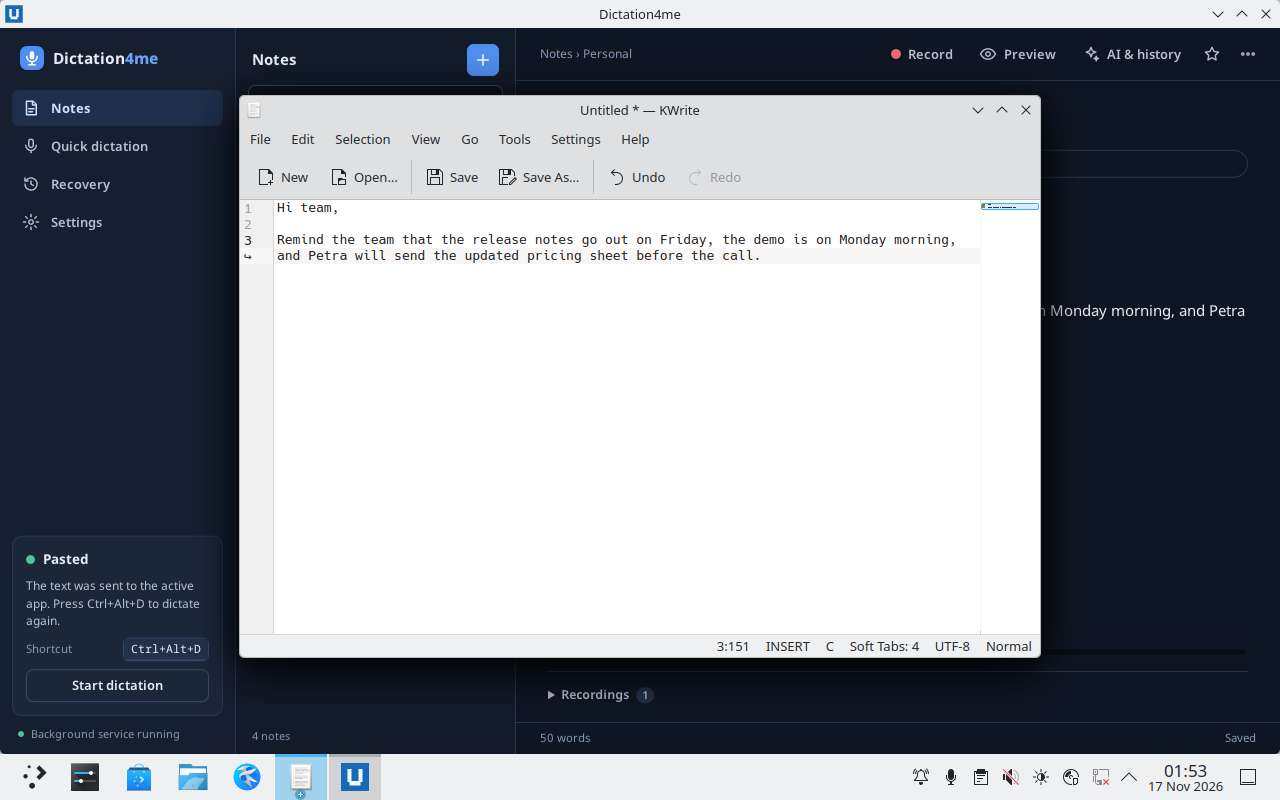
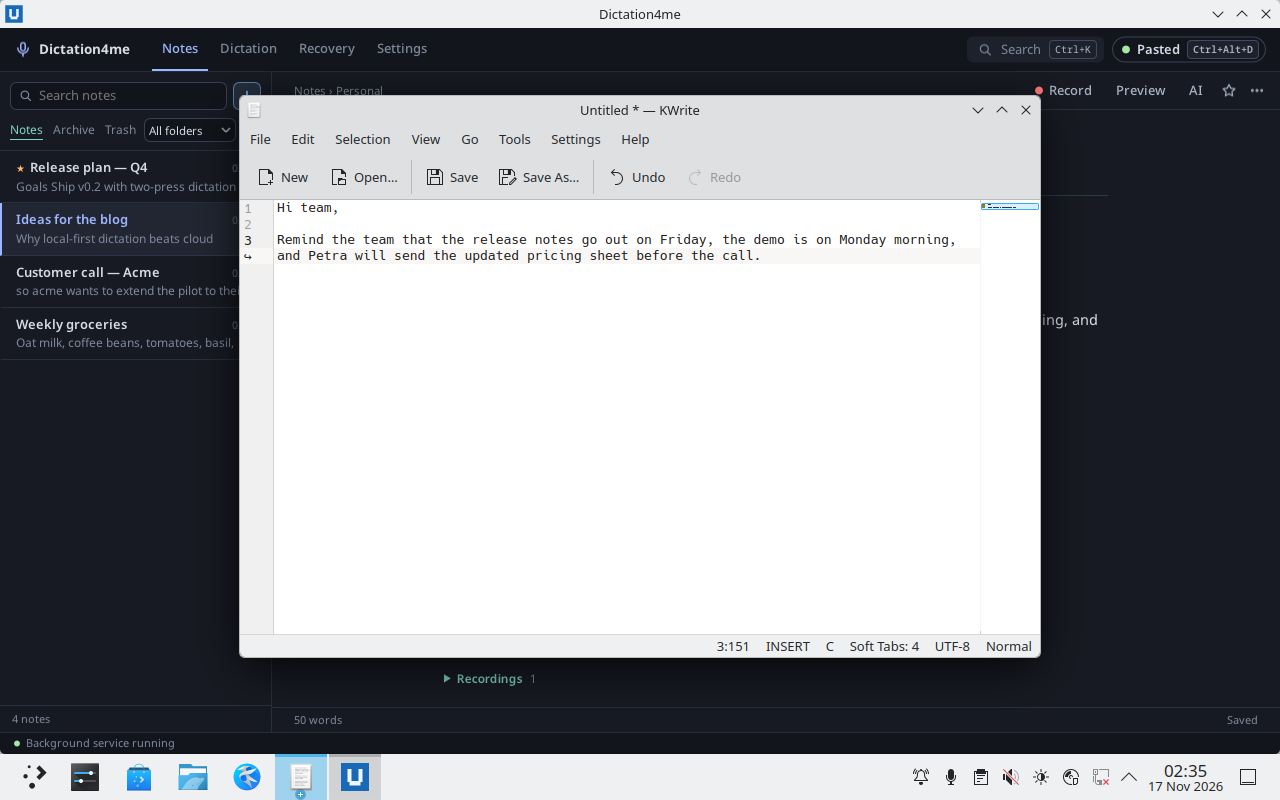
Release 0.3.0: redesigned UI, PyPI distribution
- PyPI is now the primary install path (uv tool install dictation4me);
  README uses absolute image/doc links so it renders on PyPI; GitHub,
  tag and pipx installs listed as alternatives.
- .github/workflows/publish-pypi.yml publishes on GitHub release with
  Trusted Publishing (environment 'pypi', OIDC, no stored token) after
  lint, tests, build and twine check, and refuses a tag that does not
  match the package version.
- User guide updated for the new interface (top bar, dictation chip,
  one-page Settings) with a fresh screenshot set captured on KDE
  Plasma 6.6 Wayland.
- Version 0.3.0, changelog, implementation status.

diff --git a/src/dictation4me/__init__.py b/src/dictation4me/__init__.py
@@ -1,3 +1,3 @@
 """Dictation4me — local-first native notebook and dictation assistant."""
-__version__ = "0.2.0"
+__version__ = "0.3.0"
 APP_ID = "org.bigbatmanorg.dictation4me"

diff --git a/README.md b/README.md
@@ -5,13 +5,14 @@ Live transcription, AI-assisted voice notes and a native notebook for KDE Plasma
 Your own speech and AI servers. Your notes stay on your computer.</p>
 
 <p align="center">
+<a href="https://pypi.org/project/dictation4me/"><img alt="PyPI" src="https://img.shields.io/pypi/v/dictation4me"></a>
 <a href="https://github.com/bigbatmanorg/dictation4me/releases/latest"><img alt="Release" src="https://img.shields.io/github/v/release/bigbatmanorg/dictation4me"></a>
-<a href="https://github.com/bigbatmanorg/dictation4me/actions"><img alt="CI" src="https://github.com/bigbatmanorg/dictation4me/actions/workflows/ci.yml/badge.svg"></a>
+<a href="https://github.com/bigbatmanorg/dictation4me/actions/workflows/ci.yml"><img alt="CI" src="https://github.com/bigbatmanorg/dictation4me/actions/workflows/ci.yml/badge.svg"></a>
 <img alt="Python" src="https://img.shields.io/badge/python-3.12%2B-blue">
 <img alt="License" src="https://img.shields.io/badge/license-MIT-green">
 </p>
 
-![Live dictation into any app](docs/screenshots/live-window.png)
+![Live dictation into any app](https://raw.githubusercontent.com/bigbatmanorg/dictation4me/main/docs/screenshots/live-window.png)
 
 ## Features
 
@@ -25,62 +26,84 @@ Your own speech and AI servers. Your notes stay on your computer.</p>
 
 | Notes | AI rewrite proposal |
 |---|---|
-| ![Notes](docs/screenshots/notes.png) | ![AI rewrite](docs/screenshots/ai-rewrite.png) |
+| ![Notes](https://raw.githubusercontent.com/bigbatmanorg/dictation4me/main/docs/screenshots/notes.png) | ![AI rewrite](https://raw.githubusercontent.com/bigbatmanorg/dictation4me/main/docs/screenshots/ai-rewrite.png) |
 | **Voice note with live text** | **Settings** |
-| ![Voice note](docs/screenshots/voice-note-live.png) | ![Settings](docs/screenshots/settings-dictation.png) |
+| ![Voice note](https://raw.githubusercontent.com/bigbatmanorg/dictation4me/main/docs/screenshots/voice-note-live.png) | ![Settings](https://raw.githubusercontent.com/bigbatmanorg/dictation4me/main/docs/screenshots/settings-dictation.png) |
 
 ## Install
 
 **1. System packages** (Linux, once):
 
 ```sh
-sudo apt install libportaudio2 pipewire-alsa wl-clipboard      # Debian/Ubuntu
+sudo apt install libportaudio2 pipewire-alsa wl-clipboard      # Debian / Ubuntu
 sudo dnf install portaudio pipewire-alsa wl-clipboard          # Fedora
 ```
 
-**2. Install with [uv](https://docs.astral.sh/uv/) straight from GitHub:**
+**2. Install from PyPI with [uv](https://docs.astral.sh/uv/getting-started/installation/)** (recommended):
 
 ```sh
-# latest release
-uv tool install git+https://github.com/bigbatmanorg/dictation4me@v0.2.0
-
-# or the release wheel
-uv tool install https://github.com/bigbatmanorg/dictation4me/releases/download/v0.2.0/dictation4me-0.2.0-py3-none-any.whl
-
-# or the development version (main branch)
-uv tool install git+https://github.com/bigbatmanorg/dictation4me
+uv tool install dictation4me
 ```
 
-**3. Register the app** (menu entry, autostart, and what KDE needs for the shortcut):
+This puts the `dictation4me` command on your `PATH` in its own isolated environment. If the command is not found afterwards, run `uv tool update-shell` and open a new terminal.
+
+**3. Register the app** (menu entry and autostart; KDE needs the menu entry to grant the shortcut and automatic pasting):
 
 ```sh
 dictation4me init --autostart
 dictation4me gui
 ```
 
-Requirements: Python 3.12+, glibc 2.39+ (Ubuntu 24.04+, Debian 13+, Fedora 40+), KDE Plasma 6 on Wayland recommended. If `dictation4me` is not found after installing, run `uv tool update-shell` and open a new terminal.
+**Update or remove:**
+
+```sh
+uv tool upgrade dictation4me && dictation4me service restart
+dictation4me uninstall && uv tool uninstall dictation4me      # keeps your notes
+```
+
+<details>
+<summary>Other ways to install</summary>
+
+```sh
+# A specific version from PyPI
+uv tool install dictation4me==0.3.0
+
+# Straight from GitHub (a release tag, or the latest main branch)
+uv tool install git+https://github.com/bigbatmanorg/dictation4me@v0.3.0
+uv tool install git+https://github.com/bigbatmanorg/dictation4me
+
+# With pipx or pip instead of uv
+pipx install dictation4me
+python3 -m pip install --user dictation4me
+```
+
+Release wheels and checksums are also attached to every [GitHub release](https://github.com/bigbatmanorg/dictation4me/releases).
+</details>
+
+Requirements: Python 3.12+, glibc 2.39+ (Ubuntu 24.04+, Debian 13+, Fedora 40+), KDE Plasma 6 on Wayland recommended.
 
 ## Set up in two minutes
 
-1. **Settings › Connections:** enter your speech-to-text server URL and model (e.g. `http://my-server:4000/v1`, `whisper-1`). For live text choose *Transcription mode: Live* and a realtime model (e.g. `asr-realtime`). Add the AI server if you want rewrites. Paste the API key; it is stored in the system keyring.
+1. **Settings › Connections:** enter your speech-to-text server URL and model (e.g. `http://my-server:4000/v1`, `whisper-1`). For live text choose *Mode: Live while you speak* and a realtime model (e.g. `asr-realtime`). Add the AI server if you want rewrites. Paste the API key; it is stored in the system keyring.
 2. Approve the shortcut in the KDE dialog (default **Ctrl+Alt+D**).
-3. **Settings › Dictation › Shortcut behaviour:** *type the text into the active app*, then click **Allow automatic pasting…** and approve once.
+3. **Settings › Dictation › Behaviour:** *Stop, then type the text into the active app*, then click **Allow automatic pasting…** and approve once.
 4. Click into any text field, press **Ctrl+Alt+D**, speak, press **Ctrl+Alt+D**.
 
-Running LiteLLM + vLLM? There's a ready-made config in the [user guide appendix](docs/USER_GUIDE.md#appendix-litellm--vllm-server-example).
+Running LiteLLM + vLLM? There's a ready-made config in the [user guide appendix](https://github.com/bigbatmanorg/dictation4me/blob/main/docs/USER_GUIDE.md#appendix-litellm--vllm-server-example).
 
 ## Documentation
 
-- 📖 **[User guide](docs/USER_GUIDE.md):** install, setup, daily use, every setting, CLI, privacy, troubleshooting
-- 🧩 [Architecture](docs/ARCHITECTURE_IMPLEMENTED.md) · [UX review](docs/UX_REVIEW.md) · [Design specifications](design-spec/)
-- ✅ [Implementation status](docs/IMPLEMENTATION_STATUS.md) and [qualification evidence](qualification/runs/)
-- 📝 [Changelog](CHANGELOG.md)
+- 📖 **[User guide](https://github.com/bigbatmanorg/dictation4me/blob/main/docs/USER_GUIDE.md):** install, setup, daily use, every setting, CLI, privacy, troubleshooting
+- 🎨 [Interface design](https://github.com/bigbatmanorg/dictation4me/blob/main/docs/ui-redesign/README.md) · [UX review](https://github.com/bigbatmanorg/dictation4me/blob/main/docs/UX_REVIEW.md) · [Architecture](https://github.com/bigbatmanorg/dictation4me/blob/main/docs/ARCHITECTURE_IMPLEMENTED.md)
+- ✅ [Implementation status](https://github.com/bigbatmanorg/dictation4me/blob/main/docs/IMPLEMENTATION_STATUS.md) and [qualification evidence](https://github.com/bigbatmanorg/dictation4me/tree/main/qualification/runs)
+- 📝 [Changelog](https://github.com/bigbatmanorg/dictation4me/blob/main/CHANGELOG.md)
 
 ## Quick reference
 
 | | |
 |---|---|
 | Dictate into any app | **Ctrl+Alt+D**, speak, **Ctrl+Alt+D** |
+| Start/stop from the window | the dictation chip in the top-right corner |
 | Open the notebook | app menu, tray icon, or `dictation4me gui` |
 | New note / save version / search | **Ctrl+N** / **Ctrl+S** / **Ctrl+K** |
 | Something wrong? | `dictation4me doctor` |
@@ -108,8 +131,8 @@ uv run ruff check src tests && uv run pytest -q
 uv run dictation4me gui
 ```
 
-Tests use isolated profiles (`DICTATION4ME_HOME`) and never touch your real shortcut, tray or keyring. Real-desktop behaviour is verified separately and recorded under [`qualification/runs/`](qualification/runs/).
+Tests use isolated profiles (`DICTATION4ME_HOME`) and never touch your real shortcut, tray or keyring. Real-desktop behaviour is verified separately and recorded under [`qualification/runs/`](https://github.com/bigbatmanorg/dictation4me/tree/main/qualification/runs). Releases are published to PyPI from GitHub Actions with Trusted Publishing.
 
 ## License
 
-MIT. See [LICENSE](LICENSE).
+MIT. See [LICENSE](https://github.com/bigbatmanorg/dictation4me/blob/main/LICENSE).

diff --git a/docs/USER_GUIDE.md b/docs/USER_GUIDE.md
@@ -52,20 +52,22 @@ sudo dnf install portaudio pipewire-alsa wl-clipboard
 | `pipewire-alsa` | Lets PortAudio record through PipeWire. Without it raw devices often reject 16 kHz and recording fails or drops audio. |
 | `wl-clipboard` | Clipboard on Wayland (`xclip` on X11). |
 
-### Install with uv from GitHub
+### Install from PyPI (recommended)
 
 ```sh
-# Latest release
-uv tool install git+https://github.com/bigbatmanorg/dictation4me@v0.2.0
-
-# Or the release wheel
-uv tool install https://github.com/bigbatmanorg/dictation4me/releases/download/v0.2.0/dictation4me-0.2.0-py3-none-any.whl
-
-# Or the current development version
-uv tool install git+https://github.com/bigbatmanorg/dictation4me
+uv tool install dictation4me
 ```
 
 `uv tool install` creates an isolated environment and puts `dictation4me` on your `PATH` (usually `~/.local/bin`). If the command isn't found, run `uv tool update-shell` and open a new terminal.
+
+Other options:
+
+```sh
+uv tool install dictation4me==0.3.0                                        # a specific version
+uv tool install git+https://github.com/bigbatmanorg/dictation4me@v0.3.0    # a GitHub release tag
+uv tool install git+https://github.com/bigbatmanorg/dictation4me           # latest main branch
+pipx install dictation4me                                                  # pipx instead of uv
+```
 
 ### Register the app
 
@@ -87,7 +89,7 @@ uv run dictation4me gui
 
 ## 3. First-time setup
 
-Open **Dictation4me** from the application menu (or run `dictation4me gui`), then go to **Settings**.
+Open **Dictation4me** from the application menu (or run `dictation4me gui`), then open the **Settings** tab. Settings is one page; the tree on the left jumps to each section.
 
 ![Settings — Connections](screenshots/settings-connections.png)
 
@@ -98,7 +100,7 @@ Open **Dictation4me** from the application menu (or run `dictation4me gui`), the
 | Field | What to enter |
 |---|---|
 | Server URL | The OpenAI-compatible base URL, e.g. `http://my-server:4000/v1`. Plain `http://` works for home-network names (`pgx`, `server.lan`, private IPs); internet servers need `https://`. |
-| Transcription mode | **After you stop** uploads the recording when you finish. **Live while you speak** streams audio and shows words as they come (needs a realtime model). |
+| Mode | **After you stop** uploads the recording when you finish. **Live while you speak** streams audio and shows words as they come (needs a realtime model). |
 | Model | The batch model, e.g. `whisper-1`. It is also the fallback in live mode. |
 | Realtime model | For live mode, e.g. `asr-realtime` (see the [appendix](#appendix-litellm--vllm-server-example)). |
 
@@ -107,12 +109,12 @@ Open **Dictation4me** from the application menu (or run `dictation4me gui`), the
 **API keys:** choose a source for each server:
 
 - **Not needed:** local servers without authentication.
-- **System keyring (recommended):** paste the key into *Paste a new key* and save. It is stored in KDE Wallet / GNOME Keyring / Windows Credential Manager, never in the settings file.
+- **System keyring (recommended):** paste the key into *New key* and save. It is stored in KDE Wallet / GNOME Keyring / Windows Credential Manager, never in the settings file.
 - **Environment variable:** enter the variable name, e.g. `OPENAI_API_KEY`. Variables set in `~/.bashrc` are **not** visible to a service started at login. The key-status line under each server tells you whether the background service can see the key, and **Move key to keyring** fixes it in one click.
 
 If a server is on the internet, tick **Allow sending audio and text to remote servers**.
 
-Click **Save settings**, then **Test connection** and **Test with a WAV file…** to check each server. Results appear next to the Save button.
+Click **Save** (bottom bar), then **Test connection** and **Test with a WAV file…** to check each server. Results appear in the save bar.
 
 ### 3.2 Approve the shortcut
 
@@ -120,11 +122,11 @@ The first time the service starts, KDE asks you to confirm the global shortcut (
 
 > Avoid keys KDE already uses. For example, **Meta+L locks the screen**.
 
-### 3.3 Choose how the second press behaves (Settings › Dictation)
+### 3.3 Choose how the second press behaves (Settings › Dictation › Behaviour)
 
 ![Settings — Dictation](screenshots/settings-dictation.png)
 
-| Shortcut behaviour | Press 1 | Press 2 | Press 3 |
+| Second press | Press 1 | Press 2 | Press 3 |
 |---|---|---|---|
 | **Stop, then type the text into the active app** (2 presses) | record | stop → text is typed where your cursor is | new dictation |
 | **Stop, then copy to the clipboard** (2 presses) | record | stop → text is on the clipboard, you paste | new dictation |
@@ -135,7 +137,7 @@ For **typing into the active app** on KDE Wayland, click **Allow automatic pasti
 ## 4. Dictating into any app
 
 1. Put the cursor where the text should go (an email, a chat box, an editor).
-2. Press **Ctrl+Alt+D** and speak. The tray icon turns into a red dot. In live mode a small window shows your words.
+2. Press **Ctrl+Alt+D** and speak. The tray icon and the dictation chip in the notebook turn red. In live mode a small window shows your words.
 3. Press **Ctrl+Alt+D** again. The live window closes, your text is transcribed and typed into the app.
 
 | Live window while you speak | Result typed into the app |
@@ -149,11 +151,11 @@ Good to know:
 - The live window takes keyboard focus while you speak (KDE gives new windows focus). It closes before pasting, so the text lands in your app.
 - If nothing was heard, you get "No speech detected". The audio is kept in Recovery and the next press simply records again.
 
-### Quick dictation page
+### Dictation tab
 
-![Quick dictation](screenshots/quick-dictation.png)
+![Dictation tab](screenshots/quick-dictation.png)
 
-The **Quick dictation** page shows the last result. You can edit it, **Copy again**, **Save as note**, or **Rewrite with AI** (the original transcript is kept). The big button does the same as the shortcut.
+The **Dictation** tab shows the current state and the last result. You can edit it, **Copy again**, **Save as note**, or **Rewrite with AI** (the original transcript is kept). The button in the status line does the same as the shortcut, and so does the **dictation chip** in the top-right corner of every tab.
 
 ### Tray icon
 
@@ -165,8 +167,8 @@ The microphone in the system tray shows the state (red dot while recording, a wa
 
 ![Notes](screenshots/notes.png)
 
-- **Notes list:** search (Ctrl+K), switch between *Notes*, *Archive* and *Trash*, filter by folder, create folders with the folder button. Pinned notes show a star.
-- **Editor:** title, folder, tags and Markdown text. Changes save automatically ("Saved" in the bottom right). **Preview** renders the Markdown:
+- **Notes list:** search (Ctrl+K or the search pill in the top bar), switch between *Notes*, *Archive* and *Trash*, filter by folder, create folders with the folder button. Pinned notes show a star.
+- **Editor:** title, then the folder · tags line, then Markdown text. Changes save automatically ("Saved" in the bottom right). **Preview** renders the Markdown:
 
   ![Preview](screenshots/notes-preview.png)
 
@@ -184,7 +186,7 @@ If you edit the note while recording, your typing wins: the transcript is not in
 
 ### AI rewrite, versions and history
 
-Click **AI & history**, choose an instruction (e.g. *Meeting summary*) and press **Run**. You get a **proposal**; your note is unchanged until you choose:
+Click **AI** in the note toolbar, choose an instruction (e.g. *Meeting summary*) and press **Run**. You get a **proposal**; your note is unchanged until you choose:
 
 - **Replace note:** the proposal becomes the note; the previous text is kept as a version.
 - **Keep as version:** stored in the note's history only.
@@ -313,8 +315,7 @@ It lists each problem with a fix. Logs are in `~/.local/state/dictation4me/servi
 ## 11. Updating and uninstalling
 
 ```sh
-uv tool upgrade dictation4me                      # if installed from git/a tag
-uv tool install --force git+https://github.com/bigbatmanorg/dictation4me@vX.Y.Z
+uv tool upgrade dictation4me
 dictation4me service restart
 
 dictation4me uninstall        # removes launchers and autostart, keeps notes

diff --git a/CHANGELOG.md b/CHANGELOG.md
@@ -1,5 +1,21 @@
 # Changelog
 
+## 0.3.0 — 2026-11-17
+
+### Interface
+- **Redesigned notebook** modelled on the NativeHTMLKit documentation site: flat neutral surfaces, colour-coded headings, hairlines instead of boxes, compact controls. Built directly on the NativeHTMLKit Python SDK (hand-written HTML/CSS, no UI library, no JavaScript). See `docs/ui-redesign/README.md`.
+- Top bar with tabs, a `Ctrl+K` search pill and a **dictation chip** (state + shortcut; click to start/stop) replaces the sidebar.
+- Denser note list (title and time on one line), document-style editor, AI as a slim side rail.
+- Settings is one page with a docs-style tree that jumps to sections.
+
+### Fixed
+- The status said "Pasted" when automatic pasting had failed; the service now reports the real outcome and the UI says "Copied — paste with Ctrl+V".
+- Paste-permission notifications repeated "Fix:" twice.
+- While KDE's first-time "Remote Control" dialog is open (it can appear behind the window), the status explains the wait.
+
+### Distribution
+- Published on PyPI: `uv tool install dictation4me`. Releases are uploaded from GitHub Actions with Trusted Publishing.
+
 ## 0.2.0 — 2026-11-17
 
 First release of the rewritten Dictation4me: a background service with a native notebook, replacing the 0.1.x Tk prototype. Settings from 0.1.x are not migrated.

diff --git a/docs/ui-redesign/README.md b/docs/ui-redesign/README.md
@@ -1,4 +1,4 @@
-# UI redesign (branch `ui/sdk-redesign`) — for review
+# Interface design (since 0.3.0)
 
 A flatter, more compact notebook modelled on the [NativeHTMLKit documentation site](https://nativehtmlkit.github.io/). It is built directly on the NativeHTMLKit Python SDK, with hand-written HTML/CSS and Python callbacks: no UI library, no JavaScript. All functionality of 0.2.0 is kept; only the layout and visual design changed.
 
@@ -35,7 +35,7 @@ What was deliberately *not* copied: the large padded cards. Remaining framed ele
 | **AI rail** | **Settings — Behaviour** |
 | ![AI](ai-rail.png) | ![Behaviour](settings-behaviour.png) |
 
-## Fixes found during this review (also apply to 0.2.0)
+## Fixes found during the redesign
 
 - The status said **"Pasted"** even when automatic pasting failed. The service now reports the real delivery outcome, and the UI shows "Copied — paste with Ctrl+V" when pasting didn't happen.
 - Paste-permission errors repeated "Fix:" twice in notifications.

diff --git a/docs/IMPLEMENTATION_STATUS.md b/docs/IMPLEMENTATION_STATUS.md
@@ -57,3 +57,7 @@ See [`qualification/runs/2026-11-17-ui-rewrite/REPORT.md`](../qualification/runs
 ## Release 0.2.0 — 2026-11-17
 
 Released as v0.2.0 (Beta). Real-desktop evidence: [`qualification/runs/`](../qualification/runs/). Remaining NOT RUN gates: Windows interactive desktop, screen reader, IME, HiDPI scaling, X11 session.
+
+## Release 0.3.0 — 2026-11-17
+
+Redesigned interface (docs/ui-redesign/README.md), real paste outcome in the status, PyPI distribution with Trusted Publishing. Verified on KDE Plasma 6.6 Wayland with real input; the NOT RUN gates listed for 0.2.0 still apply.
